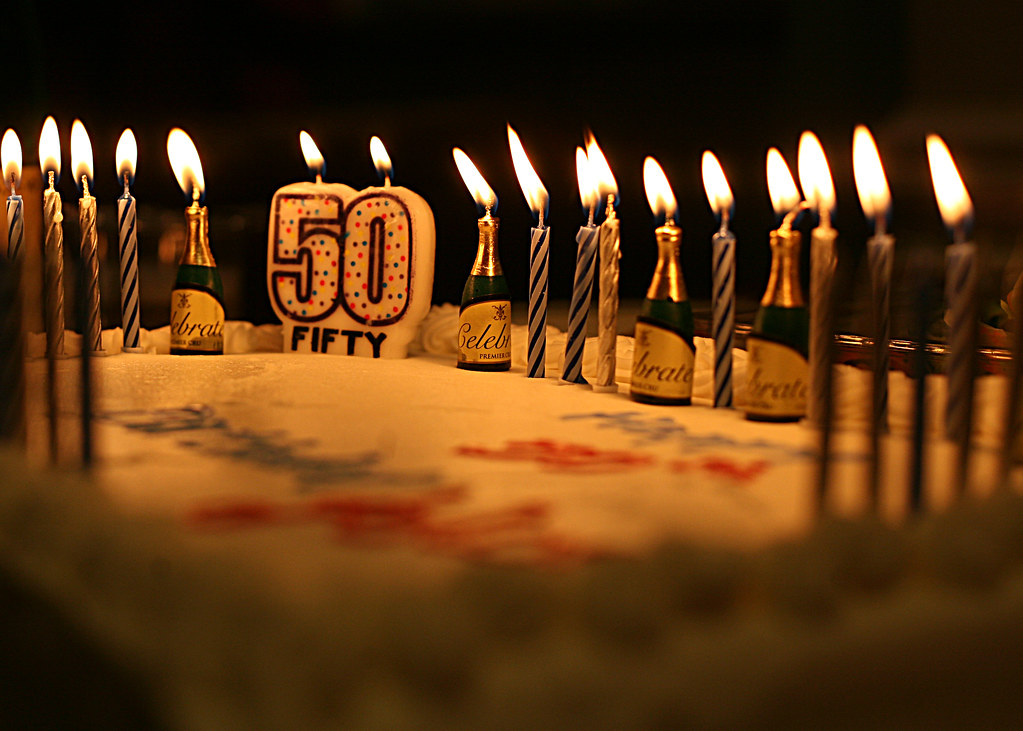
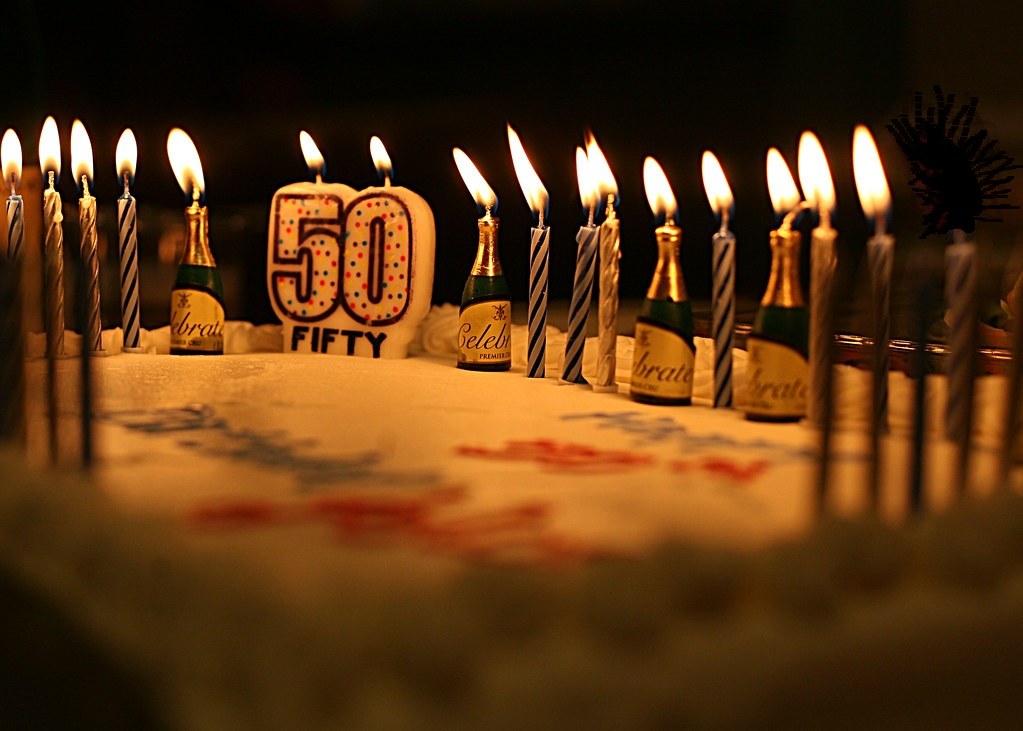
Animated Sprite

diff --git a/java/src/main/java/org/kd/hellogdx/gdxworld/SpriteSheetAnim.java b/java/src/main/java/org/kd/hellogdx/gdxworld/SpriteSheetAnim.java
@@ -4,67 +4,31 @@ import com.badlogic.gdx.ApplicationAdapter;
 import com.badlogic.gdx.Gdx;
 import com.badlogic.gdx.graphics.GL20;
 import com.badlogic.gdx.graphics.Texture;
-import com.badlogic.gdx.graphics.g2d.Animation;
 import com.badlogic.gdx.graphics.g2d.SpriteBatch;
-import com.badlogic.gdx.graphics.g2d.TextureRegion;
+import org.kd.common.AnimatedSprite;
 
 public class SpriteSheetAnim extends ApplicationAdapter {
     SpriteBatch batch;
-    Texture spriteSheet;
-    Animation<TextureRegion> animation;
-    float stateTime;
+    AnimatedSprite sprite;
 
     @Override
     public void create() {
         batch = new SpriteBatch();
 
-        // Load sprite sheet texture
-        spriteSheet = new Texture("spritesheets/owls.png");
-
-        // Assuming sprite sheet has 4 frames horizontally
-        int FRAME_COLS = 2;
-        int FRAME_ROWS = 1;
-        int FRAME_WIDTH = 98/2;
-        int FRAME_HEIGHT = 44;
-
-        TextureRegion[][] tmpRegions = TextureRegion.split(spriteSheet, FRAME_WIDTH, FRAME_HEIGHT);
-
-        // Convert 2D array to 1D array for animation frames
-        TextureRegion[] frames = new TextureRegion[FRAME_COLS * FRAME_ROWS];
-        int index = 0;
-        for (int i = 0; i < FRAME_ROWS; i++) {
-            for (int j = 0; j < FRAME_COLS; j++) {
-                frames[index++] = tmpRegions[i][j];
-            }
-        }
-
-        // Create animation with frame duration (e.g., 0.3 seconds per frame)
-        animation = new Animation<>(0.3f, frames);
-        stateTime = 0f;
+        sprite = new AnimatedSprite("spritesheets/owls.png", 2, 0.2f, 25, 25);
     }
 
     @Override
     public void render() {
-
-        // Clear screen
         Gdx.gl.glClearColor(0.1f, 0.1f, 0, 1);
         Gdx.gl.glClear(GL20.GL_COLOR_BUFFER_BIT);
-
-        // Update state time
-        stateTime += Gdx.graphics.getDeltaTime();
-
-        // Get current frame based on elapsed time
-        TextureRegion currentFrame = animation.getKeyFrame(stateTime, true); // loop = true
-
-        // Draw the current frame
         batch.begin();
-        batch.draw(currentFrame, 25, 25); // Draw at position (100, 100)
+        sprite.draw(batch);
         batch.end();
     }
 
     @Override
     public void dispose() {
         batch.dispose();
-        spriteSheet.dispose();
     }
 }

diff --git a/java/src/main/java/org/kd/goodjob/Scene5Exit.java b/java/src/main/java/org/kd/goodjob/Scene5Exit.java
@@ -6,14 +6,17 @@ import com.badlogic.gdx.graphics.GL20;
 import com.badlogic.gdx.graphics.Texture;
 import com.badlogic.gdx.graphics.g2d.BitmapFont;
 import com.badlogic.gdx.graphics.g2d.SpriteBatch;
+import org.kd.common.AnimatedSprite;
 import org.kd.common.C64Helper;
 import org.kd.common.ConsoleLogger;
 import org.kd.common.Scene;
 import org.kd.common.tricks.Effects;
 import org.kd.goodjob.appendix.BannerApple;
+import org.lwjgl.util.Point;
 
 import java.util.ArrayList;
 import java.util.List;
+import java.util.stream.IntStream;
 
 public final class Scene5Exit extends Scene {
 
@@ -24,9 +27,22 @@ public final class Scene5Exit extends Scene {
     private BitmapFont font, fontSmall;
     private final List<Message> messages;
     private Music endSpeech;
+    private List<AnimatedSprite> flameSprites;
 
     public Scene5Exit() {
         super("exit");
+        var coords = List.of(new Point(33, 550), new Point(165, 530), new Point(233, 510)
+                , new Point(355, 560), new Point(934, 500));
+        var spriteCount = coords.size();
+        this.flameSprites = new ArrayList<>(spriteCount);
+
+        IntStream.range(0, spriteCount).forEach(i -> {
+            var x = coords.get(i).getX();
+            var y = coords.get(i).getY();
+            var flame = new AnimatedSprite("good-job/flames/flame.png", 4, 0.05f + 0.008f * i, x, y);
+            flame.scale(1f - 0.05f * i);
+            this.flameSprites.add(flame);
+        });
 
         messages = new ArrayList<>();
         messages.add(new Message("This demo is not intended as an advertisement of Apple company", 121));
@@ -57,6 +73,7 @@ public final class Scene5Exit extends Scene {
 
         batch5.begin();
         batch5.draw(cake, 0, 0);
+        this.flameSprites.forEach(flame -> flame.draw(batch5));
         if (getRelativeFrame() == 122) endSpeech.play();
 
         if (getRelativeFrame() > 122) {

diff --git a/java/src/main/java/org/kd/common/AnimatedSprite.java b/java/src/main/java/org/kd/common/AnimatedSprite.java
@@ -1,0 +1,51 @@
+package org.kd.common;
+
+import com.badlogic.gdx.Gdx;
+import com.badlogic.gdx.graphics.Texture;
+import com.badlogic.gdx.graphics.g2d.Animation;
+import com.badlogic.gdx.graphics.g2d.SpriteBatch;
+import com.badlogic.gdx.graphics.g2d.TextureRegion;
+
+public class AnimatedSprite {
+    Texture spriteSheet;
+    Animation<TextureRegion> animation;
+    float stateTime, scale = 1f;
+    int x, y;
+
+    public AnimatedSprite(String path, int frameCount, float frameDuration, int x, int y) {
+        this.x = x;
+        this.y = y;
+        spriteSheet = new Texture(path);
+
+        int FRAME_COLS = frameCount;
+        int FRAME_ROWS = 1;
+        int FRAME_WIDTH = spriteSheet.getWidth() / FRAME_COLS;
+        int FRAME_HEIGHT = spriteSheet.getHeight();
+
+        TextureRegion[][] tmpRegions = TextureRegion.split(spriteSheet, FRAME_WIDTH, FRAME_HEIGHT);
+
+        TextureRegion[] frames = new TextureRegion[FRAME_COLS * FRAME_ROWS];
+        int index = 0;
+        for (int i = 0; i < FRAME_ROWS; i++) {
+            for (int j = 0; j < FRAME_COLS; j++) {
+                frames[index++] = tmpRegions[i][j];
+            }
+        }
+        this.animation = new Animation<>(frameDuration, frames);
+        stateTime = 0f;
+    }
+
+    public void draw(SpriteBatch batch) {
+        stateTime += Gdx.graphics.getDeltaTime();
+        TextureRegion currentFrame = this.animation.getKeyFrame(stateTime, true);
+        batch.draw(currentFrame, x, y, currentFrame.getRegionWidth() * scale, currentFrame.getRegionHeight() * scale);
+    }
+
+    public void scale(float scaleValue) {
+        this.scale = scaleValue;
+    }
+
+    public void dispose() {
+        spriteSheet.dispose();
+    }
+}
